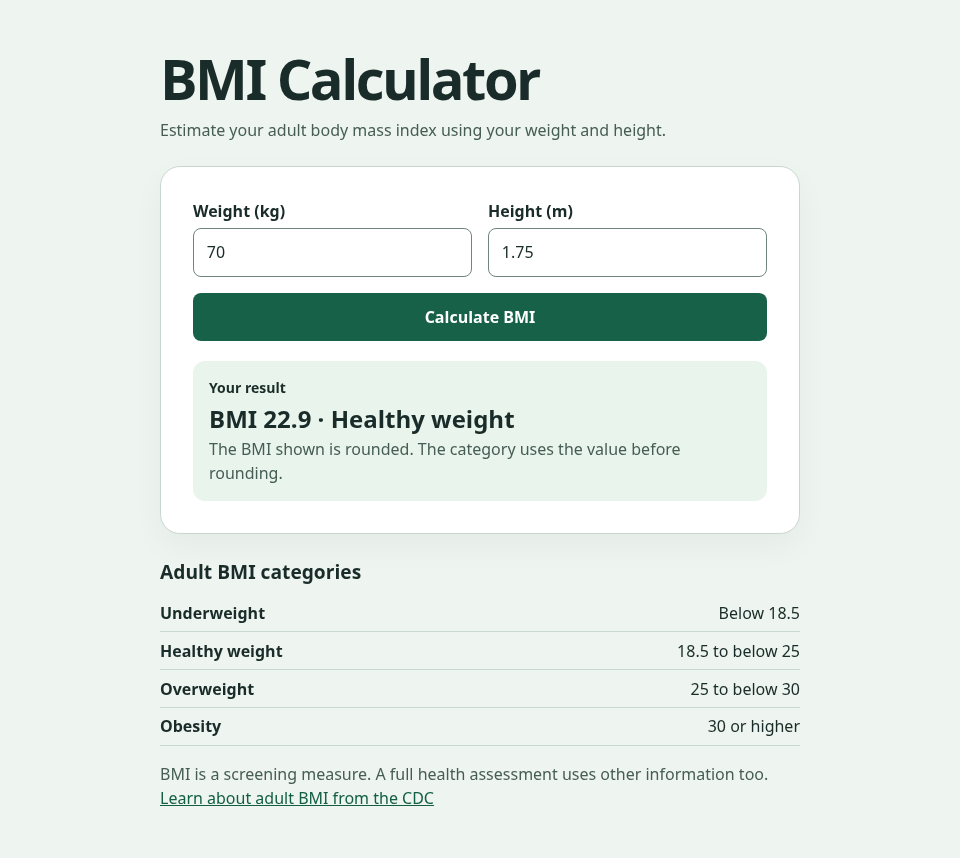
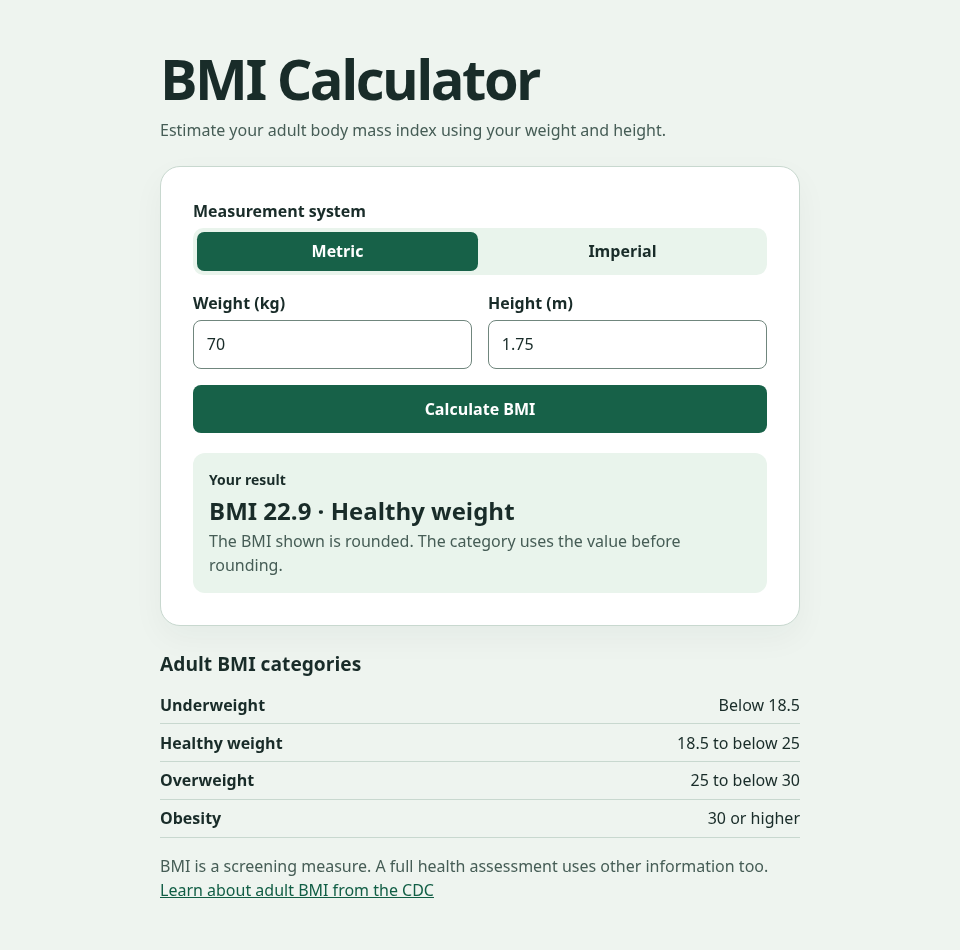
Add metric and imperial options to my BMI calculator

Changed region(s): [[0.1875, 0.2121, 0.8125, 0.6061], [0.1562, 0.6364, 0.8438, 0.9697], [0.1562, 0.0606, 0.6875, 0.1818]]

diff --git a/script.js b/script.js
@@ -1,6 +1,8 @@
 const form = document.querySelector("#bmi-form");
 const weightInput = document.querySelector("#weight");
 const heightInput = document.querySelector("#height");
+const inchesInput = document.querySelector("#inches");
+const inchesField = document.querySelector("#inches-field");
 const result = document.querySelector("#result");
 const summary = document.querySelector("#summary");
 const detail = document.querySelector("#detail");
@@ -10,10 +12,14 @@ function readMeasurement(input, label, minimum, maximum, unit) {
   const value = input.valueAsNumber;
   let message = "";
 
-  if (!Number.isFinite(value) || value <= 0) {
+  if (input === inchesInput && (!Number.isFinite(value) || value < 0 || value >= 12)) {
+    message = "Enter additional inches from 0 to below 12.";
+  } else if (!Number.isFinite(value) || value < 0 || (value === 0 && minimum > 0)) {
     message = `Enter a ${label} greater than zero in ${unit}.`;
   } else if (value < minimum || value > maximum) {
     message = `Enter a ${label} between ${minimum} and ${maximum} ${unit}.`;
+  } else if (input === heightInput && unit === "ft" && !Number.isInteger(value)) {
+    message = "Enter whole feet and put the rest in the inches field.";
   }
 
   document.querySelector(`#${input.id}-error`).textContent = message;
@@ -28,22 +34,68 @@ function getCategory(bmi) {
   return "Obesity";
 }
 
+function clearResult(message) {
+  result.classList.remove("has-result");
+  summary.textContent = message;
+  detail.textContent = "";
+}
+
+let imperial = false;
+form.addEventListener("change", (event) => {
+  if (event.target.name !== "units") return;
+
+  imperial = event.target.value === "imperial";
+  weightInput.labels[0].textContent = imperial ? "Weight (lb)" : "Weight (kg)";
+  heightInput.labels[0].textContent = imperial ? "Height (ft)" : "Height (m)";
+  weightInput.placeholder = imperial ? "154" : "70";
+  heightInput.placeholder = imperial ? "5" : "1.75";
+  heightInput.step = imperial ? "1" : "any";
+  heightInput.inputMode = imperial ? "numeric" : "decimal";
+  inchesField.hidden = !imperial;
+  inchesInput.disabled = !imperial;
+  form.classList.toggle("imperial", imperial);
+
+  for (const input of [weightInput, heightInput, inchesInput]) {
+    input.value = "";
+    input.removeAttribute("aria-invalid");
+    document.querySelector(`#${input.id}-error`).textContent = "";
+  }
+  clearResult("Enter your measurements to calculate your BMI.");
+});
+
 form.addEventListener("submit", (event) => {
   event.preventDefault();
 
-  const weight = readMeasurement(weightInput, "weight", 1, 700, "kg");
-  const height = readMeasurement(heightInput, "height", 0.5, 3, "m");
+  const weight = imperial
+    ? readMeasurement(weightInput, "weight", 2.2, 1543, "lb")
+    : readMeasurement(weightInput, "weight", 1, 700, "kg");
+  const height = imperial
+    ? readMeasurement(heightInput, "height", 1, 9, "ft")
+    : readMeasurement(heightInput, "height", 0.5, 3, "m");
+  const inches = imperial ? readMeasurement(inchesInput, "height", 0, 12, "in") : 0;
+  const invalidInput = form.querySelector('input[aria-invalid="true"]');
 
-  if (weight === null || height === null) {
-    result.classList.remove("has-result");
-    summary.textContent = "Check your measurements and try again.";
-    detail.textContent = "";
-    const firstInvalidInput = weight === null ? weightInput : heightInput;
-    firstInvalidInput.focus();
+  if (invalidInput) {
+    clearResult("Check your measurements and try again.");
+    invalidInput.focus();
     return;
   }
 
-  const bmi = weight / (height * height);
+  // Convert imperial measurements to metric so both systems use the same formula.
+  const kilograms = imperial ? weight * 0.45359237 : weight;
+  const totalInches = height * 12 + inches;
+
+  if (imperial && (totalInches < 20 || totalInches > 118)) {
+    document.querySelector("#height-error").textContent =
+      "Enter a total height from 20 to 118 inches.";
+    heightInput.setAttribute("aria-invalid", "true");
+    clearResult("Check your measurements and try again.");
+    heightInput.focus();
+    return;
+  }
+
+  const meters = imperial ? totalInches * 0.0254 : height;
+  const bmi = kilograms / (meters * meters);
   // Use the original value for the category, even near a cutoff.
   const category = getCategory(bmi);
   result.classList.add("has-result");

diff --git a/index.html b/index.html
@@ -17,6 +17,13 @@
 
     <section class="calculator" aria-label="Calculate your BMI">
       <form id="bmi-form" novalidate>
+        <fieldset class="unit-picker">
+          <legend>Measurement system</legend>
+          <div class="unit-options">
+            <label><input type="radio" name="units" value="metric" checked><span>Metric</span></label>
+            <label><input type="radio" name="units" value="imperial"><span>Imperial</span></label>
+          </div>
+        </fieldset>
         <div class="measurements">
           <div>
             <label for="weight">Weight (kg)</label>
@@ -29,6 +36,12 @@
             <input id="height" type="number" inputmode="decimal" step="any"
               placeholder="1.75" required aria-describedby="height-error">
             <p class="error" id="height-error"></p>
+          </div>
+          <div id="inches-field" hidden>
+            <label for="inches">Additional height (in)</label>
+            <input id="inches" type="number" inputmode="decimal" step="any"
+              placeholder="9" required disabled aria-describedby="inches-error">
+            <p class="error" id="inches-error"></p>
           </div>
         </div>
         <button type="submit">Calculate BMI</button>

diff --git a/style.css b/style.css
@@ -111,3 +111,55 @@ a { color: #115e45; }
 @media (max-width: 30rem) {
   .measurements { grid-template-columns: 1fr; }
 }
+
+.unit-picker {
+  border: 0;
+  margin: 0 0 1rem;
+  padding: 0;
+}
+
+.unit-picker legend {
+  padding: 0;
+  margin-bottom: .35rem;
+  font-weight: 650;
+}
+
+.unit-options {
+  display: grid;
+  grid-template-columns: repeat(2, minmax(0, 1fr));
+  gap: .25rem;
+  padding: .25rem;
+  background: #e9f4ec;
+  border-radius: .65rem;
+}
+
+.unit-options label { position: relative; }
+
+.unit-options input {
+  position: absolute;
+  width: 1px;
+  height: 1px;
+  opacity: 0;
+}
+
+.unit-options span {
+  display: block;
+  padding: .45rem;
+  text-align: center;
+  border-radius: .45rem;
+  cursor: pointer;
+}
+
+.unit-options input:checked + span {
+  background: #176148;
+  color: white;
+}
+
+.unit-options input:focus-visible + span {
+  outline: 3px solid #116c75;
+  outline-offset: 2px;
+}
+
+@media (min-width: 30.01rem) {
+  .imperial .measurements { grid-template-columns: repeat(3, minmax(0, 1fr)); }
+}

diff --git a/README.md b/README.md
@@ -2,7 +2,7 @@
 
 This is my final project for CMPS 510, Principles and Concepts of Software Engineering.
 
-I chose a BMI calculator because I wanted to make a simple web page that works on a computer or phone. Enter your weight in kilograms and your height in meters to see your BMI and its adult category. If a measurement is invalid, the page shows what to correct. The calculator runs in your browser and does not save your measurements.
+I chose a BMI calculator because I wanted to make a simple web page that works on a computer or phone. Choose **Metric** for kilograms and meters or **Imperial** for pounds, feet, and inches. The calculator shows your BMI and its adult category. If a measurement is invalid, the page shows what to correct. The calculator runs in your browser and does not save your measurements.
 
 ## Run it locally
 
@@ -12,7 +12,7 @@ I chose a BMI calculator because I wanted to make a simple web page that works o
    python3 -m http.server 8000 --bind 127.0.0.1
    ```
 2. Enter **70 kg** and **1.75 m**. Select **Calculate BMI** to see **22.9 · Healthy weight**.
-3. Change the height to **0** and select **Calculate BMI** again to see the validation message.
+3. Choose **Imperial** and enter **154 lb**, **5 ft**, and **9 in** to see **22.7 · Healthy weight**. Enter **0** in the inches field if your height is an exact number of feet. Switching systems clears the fields and the result.
 
 ![Calculator showing a BMI of 22.9 with the Healthy weight category](docs/screenshot.png)
 
